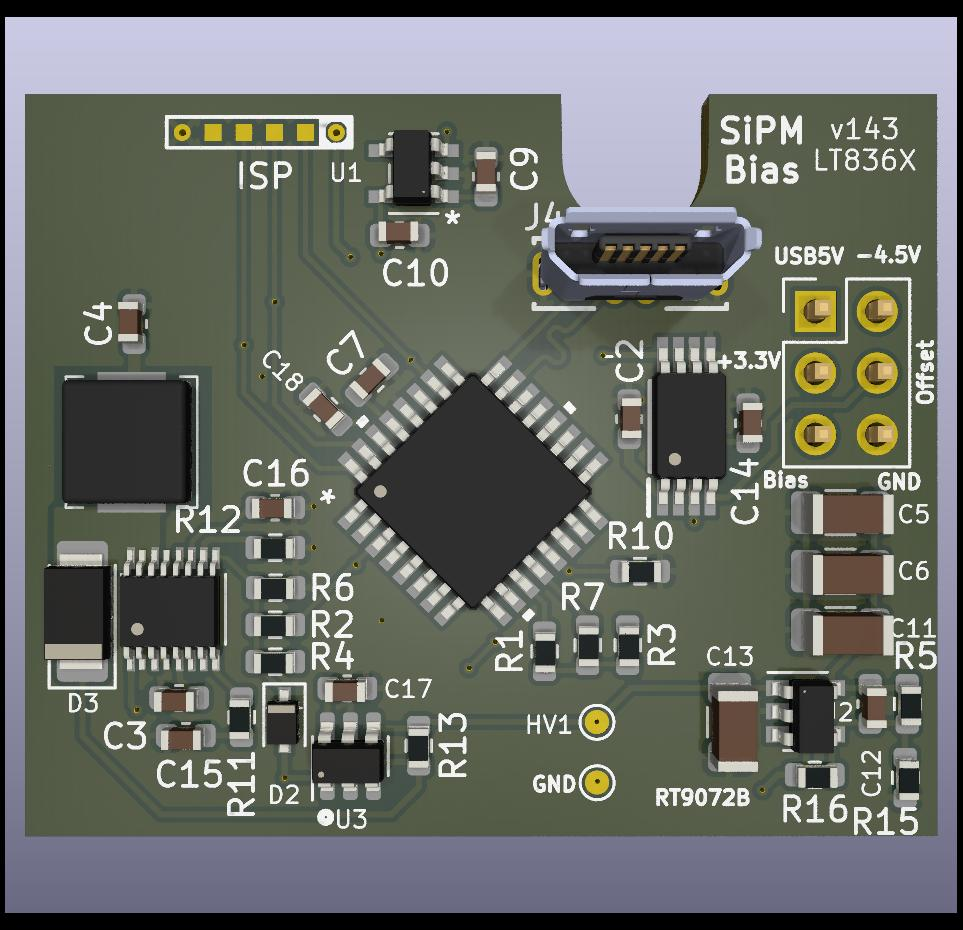
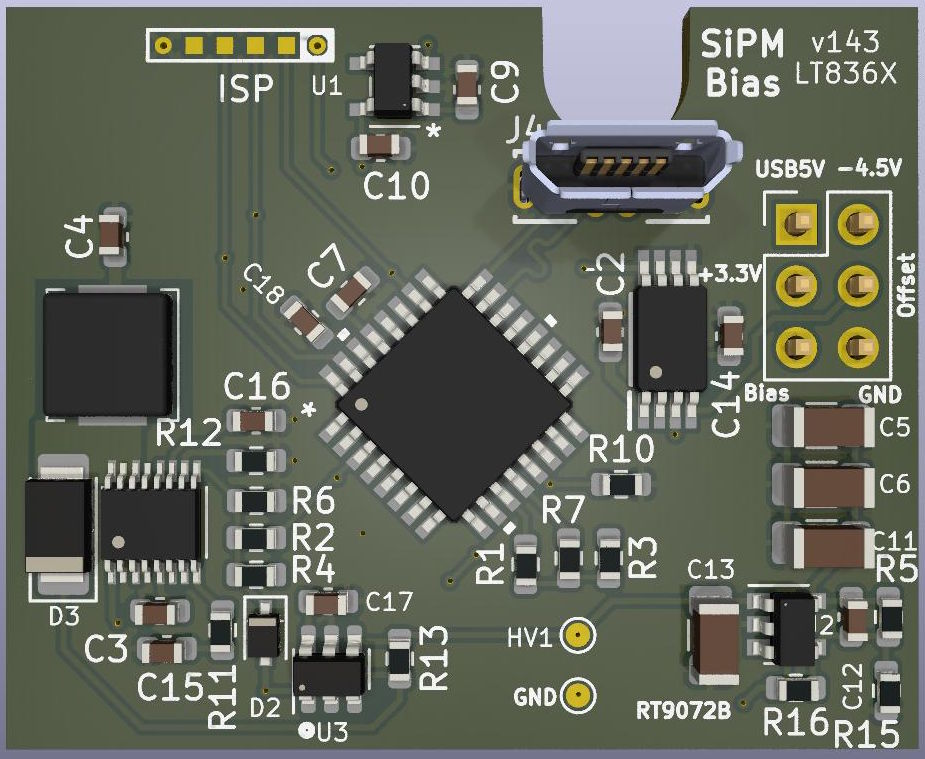
Fix readme image of bias generator

diff --git a/README.md b/README.md
@@ -20,7 +20,7 @@ This PCB is responsible for generating the high voltage (~50-60V) required to op
 
 See:  [bias-control-lt8362](https://github.com/OpenSiPM/sipm-bias-control/tree/master/bias-control-lt8362). [Bill of materials](https://htmlpreview.github.io/?https://github.com/OpenSiPM/sipm-bias-control/blob/master/bias-control-lt8362/bom/ibom.html)
 
-![Image of bias generator](https://github.com/OpenSiPM/sipm-bias-control/blob/master/sipm-bias-control/bias_generator_LT8362.jpg)
+![Image of bias generator](https://github.com/OpenSiPM/sipm-bias-control/blob/master/bias-control-lt8362/bias_generator_LT8362.jpg)
 
 # power-supply
 
